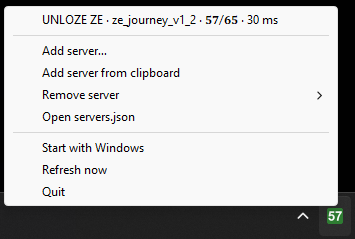
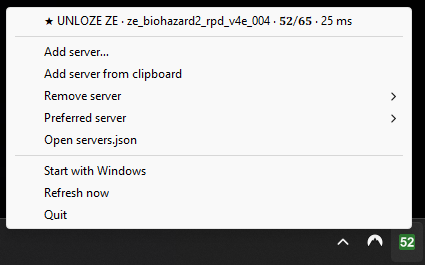
Enhance server management by adding preferred server functionality, update README, and modify JSON structure

Changed region(s): [[0.0, 0.0, 1.0, 0.9665], [0.093, 0.0586, 0.8366, 0.1172]]

diff --git a/tray.py b/tray.py
@@ -12,8 +12,8 @@ from pystray._util import win32  # private pystray API: keep pystray pinned in r
 
 import startup
 from dialogs import MB_ICONERROR, ask_server, confirm, message, read_clipboard
-from query import (SERVERS_FILE, address, bold_digits, format_status, load_servers, parse_address, query_all,
-                   save_servers, totals)
+from query import (SERVERS_FILE, address, bold_digits, format_status, load_servers, parse_address,
+                   preferred_address, query_all, save_servers, totals)
 
 REFRESH_SECONDS = 30
 ICON_SIZE = 64  # Windows scales it down to 16-32 px in the tray
@@ -125,12 +125,16 @@ class TrayApp:
         elif not self.statuses:
             yield pystray.MenuItem("No servers yet", None, enabled=False)
         else:
-            for s in self.statuses:
-                yield pystray.MenuItem(format_status(s, bold=True), _connect(s["address"]), enabled=s["online"])
+            preferred = preferred_address(self.servers)
+            for s in sorted(self.statuses, key=lambda s: s["address"] != preferred):  # preferred first
+                text = format_status(s, bold=True)
+                yield pystray.MenuItem(f"★ {text}" if s["address"] == preferred else text,
+                                       _connect(s["address"]), enabled=s["online"])
         yield pystray.Menu.SEPARATOR
         yield pystray.MenuItem("Add server…", self._dialog(self._ask_server))
         yield pystray.MenuItem("Add server from clipboard", self._dialog(self._add_from_clipboard))
         yield pystray.MenuItem("Remove server", pystray.Menu(self._remove_items), enabled=bool(self.servers))
+        yield pystray.MenuItem("Preferred server", pystray.Menu(self._preferred_items), enabled=bool(self.servers))
         yield pystray.MenuItem("Open servers.json", _open_servers_file)
         yield pystray.Menu.SEPARATOR
         yield pystray.MenuItem("Start with Windows", self._toggle_startup, checked=lambda _item: startup.is_enabled())
@@ -140,6 +144,33 @@ class TrayApp:
     def _remove_items(self):
         for server in self.servers:
             yield pystray.MenuItem(self._label(server), self._dialog(partial(self._confirm_remove, server)))
+
+    def _preferred_items(self):
+        preferred = preferred_address(self.servers)
+        for server in self.servers:
+            addr = address(server)
+            yield pystray.MenuItem(self._label(server), self._prefer_action(addr),
+                                   checked=lambda _item, addr=addr: addr == preferred, radio=True)
+
+    def _prefer_action(self, addr):
+        # A factory, so each menu item keeps its own address (a lambda in the loop would see only the last one).
+        return lambda: self._toggle_preferred(addr)
+
+    def _toggle_preferred(self, addr):
+        """Make addr the preferred server, or clear it if it already is."""
+        try:
+            with self._servers_lock:
+                make_preferred = preferred_address(self.servers) != addr
+                servers = [{k: v for k, v in s.items() if k != "preferred"} for s in self.servers]
+                for s in servers:
+                    if make_preferred and address(s) == addr:
+                        s["preferred"] = True
+                self._save(servers)
+        except ValueError as e:
+            self._dialog(partial(message, str(e), MB_ICONERROR))()
+            return
+        if self.statuses is not None:
+            self._show(self.statuses)  # redraw the icon now instead of after the refresh
 
     def _label(self, server):
         """Name and address, using the name the server reports when servers.json has none."""
@@ -254,15 +285,29 @@ class TrayApp:
         with self._show_lock:  # the refresh thread and a remove can both get here
             self.statuses = statuses
             players, capacity = totals(statuses)
-            shown = (players if capacity else None, any(s["event"] for s in statuses))
+            total = f"{bold_digits(f'{players}/{capacity}')} players" if capacity else "all servers offline"
+            addr = preferred_address(self.servers)
+            preferred = next((s for s in statuses if s["address"] == addr), None)
+            if preferred:
+                # The icon follows the preferred server; the tooltip adds the total when there's more than one.
+                icon_players = preferred["players"] if preferred["online"] else None
+                count = f"{preferred['players']}/{preferred['max_players']}"
+                own = f"{bold_digits(count)} players" if preferred["online"] else "offline"
+                # pystray raises on tooltips over 128 characters, so cut long server names short.
+                title = f"{preferred['name'][:40]}: {own}"
+                if len(statuses) > 1:
+                    title += f"\nAll servers: {total}"
+            else:
+                icon_players = players if capacity else None
+                title = f"CSS ZE: {total}"
+            shown = (icon_players, any(s["event"] for s in statuses))
             if shown != self._shown:
                 event_started = shown[1] and not self._shown[1]
                 self.icon.icon = make_icon(*shown)
                 self._shown = shown
                 if event_started:
                     threading.Thread(target=self._blink, daemon=True).start()
-            self.icon.title = (f"CSS ZE: {bold_digits(f'{players}/{capacity}')} players" if capacity
-                               else "CSS ZE: all servers offline")
+            self.icon.title = title
             self.icon.update_menu()
 
     def _blink(self):

diff --git a/query.py b/query.py
@@ -53,6 +53,13 @@ def _validate(server, where):
     name = server.get("name")
     if name is not None and not isinstance(name, str):
         raise ValueError(f"{where}: name {name!r} must be text")
+    if not isinstance(server.get("preferred", False), bool):
+        raise ValueError(f"{where}: preferred must be true or false")
+
+
+def preferred_address(servers):
+    """Address of the preferred server, or None. If a hand edit marks several, the first one wins."""
+    return next((address(s) for s in servers if s.get("preferred")), None)
 
 
 def save_servers(servers, path=SERVERS_FILE):

diff --git a/README.md b/README.md
@@ -25,52 +25,6 @@ Put it in any folder and run it. You need Windows 10/11 and Steam with Counter-S
 The `.exe` isn't signed, so the first time Windows shows "Windows protected your PC". Click **More info**,
 then **Run anyway**.
 
-## Requirements to run from source
-
-- Windows 10/11
-- Python 3.12+ from [python.org](https://www.python.org/downloads/) (not the Microsoft Store placeholder)
-- Steam with Counter-Strike: Source installed
-
-## Setup
-
-```powershell
-py -m venv .venv
-.venv\Scripts\python.exe -m pip install -r requirements.txt
-.venv\Scripts\python.exe main.py
-```
-
-Click the tray icon (left or right) to open the menu. The icon shows the total number of players on the
-online servers. Hover over it to see players and capacity, for example `44/104`.
-
-To check the servers without the tray, run `.venv\Scripts\python.exe query.py`.
-
-## Build the .exe
-
-```powershell
-powershell -ExecutionPolicy Bypass -File build.ps1
-```
-
-This installs PyInstaller into the venv, draws the icon (`make_ico.py`) and writes
-`dist\CSS-ZE-Widget.exe`. That one file is all you need, and it can go in any folder.
-
-Unsigned single-file builds sometimes set off antivirus false positives.
-
-### Publish a release
-
-Push a version tag. GitHub Actions (`.github/workflows/release.yml`) then builds the `.exe` and publishes it
-as a release, with the commits since the previous one as release notes:
-
-```powershell
-git tag v1.0.0
-git push CSS-ZE-Server-Widget v1.0.0
-```
-
-Follow the run under the repo's **Actions** tab. It takes a few minutes.
-
-To start the widget when you log in, tick **Start with Windows** in the tray menu. It adds the `.exe`'s
-current location to your user's startup list. If you move the `.exe`, the item shows as unticked: tick it
-again.
-
 ## Configuration
 
 Add and remove servers from the tray menu:
@@ -80,6 +34,9 @@ Add and remove servers from the tray menu:
 - **Add server from clipboard** adds the address you copied without opening a window. It accepts
   `1.2.3.4`, `1.2.3.4:27015`, `connect 1.2.3.4:27015` and `steam://connect/1.2.3.4:27015`.
 - **Remove server** lists the servers. It asks before removing one.
+- **Preferred server** picks one server for the icon. The icon then shows that server's players instead of
+  the total, the server is listed first with a ★, and the tooltip shows both. Click it again to go back to
+  the total.
 - **Open servers.json** opens the list in Notepad. The widget picks up your changes on the next refresh,
   or right away with **Refresh now**.
 
@@ -89,11 +46,13 @@ The list is saved in `servers.json`:
 - Running from source, it's the one in the project folder.
 
 If the file is missing, it's created with UNLOZE ZE. If a hand edit breaks it, the widget says so and keeps
-the previous list. The optional `name` replaces the name the server reports.
+the previous list. The optional `name` replaces the name the server reports, and `"preferred": true`
+marks the preferred server.
 
 ```json
 [
-  { "name": "UNLOZE ZE", "ip": "51.195.188.106", "port": 27015 }
+  { "name": "UNLOZE ZE", "ip": "51.195.188.106", "port": 27015, "preferred": true },
+  { "ip": "1.2.3.4", "port": 27015 }
 ]
 ```
 
